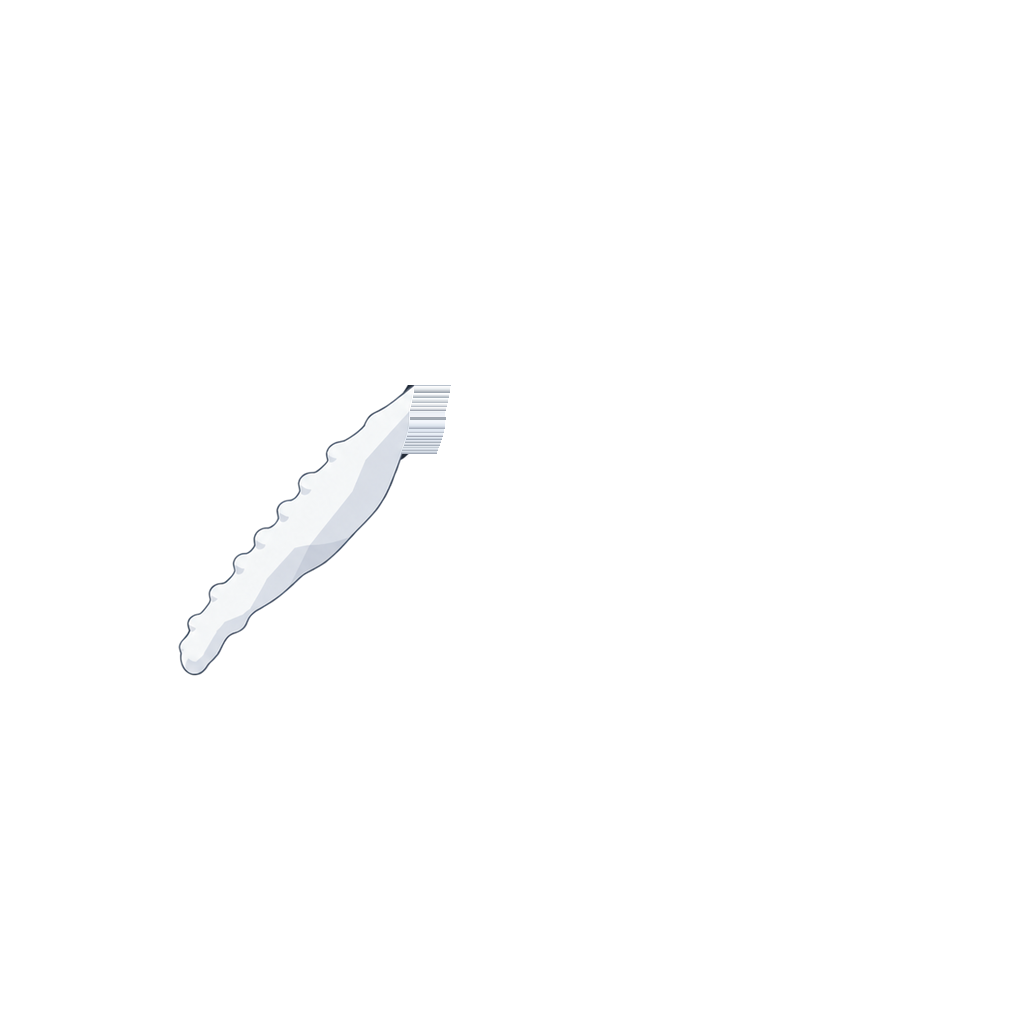
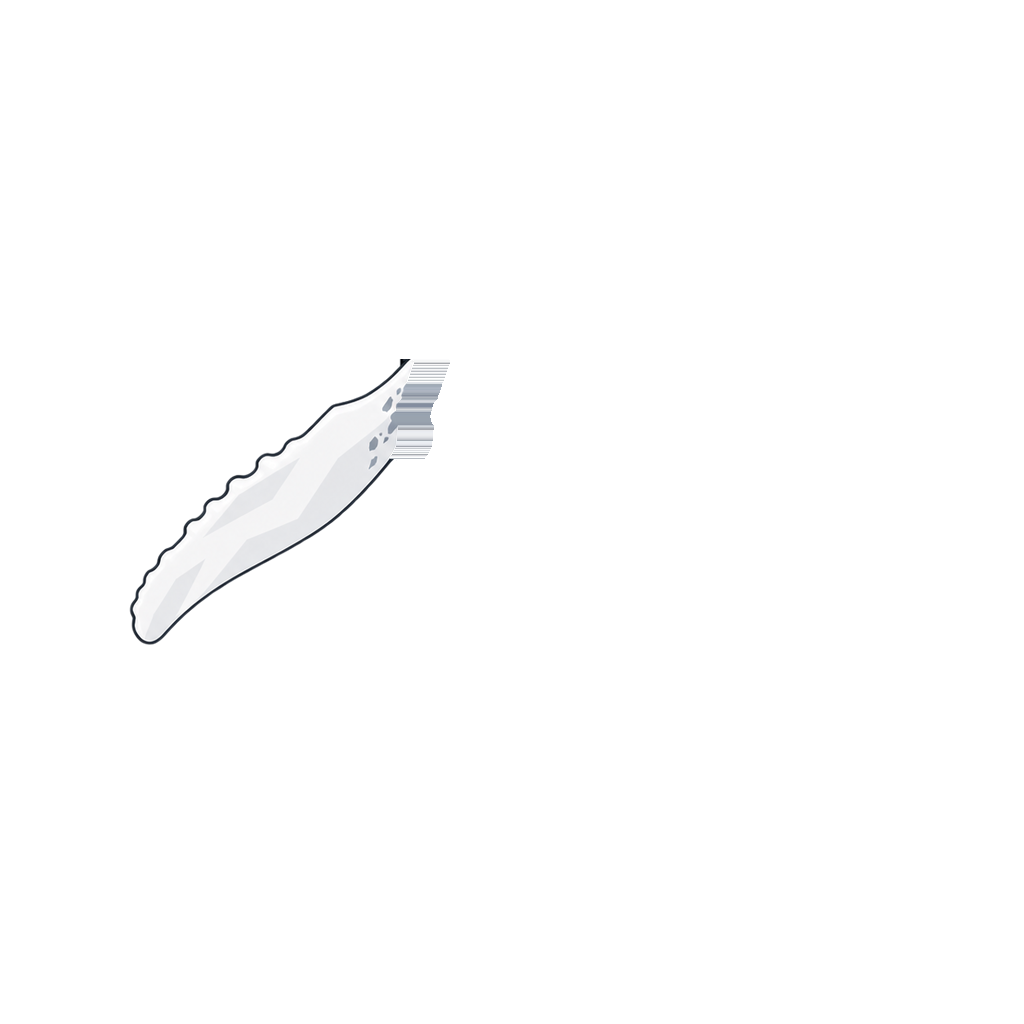
Ocean humpbacks: repainted adult and calf, and researched movement and behaviour
New paintings (Oct 19 2026) ingested; finsplit closes the flipper core so painted
spots at the root go with the flipper. Behaviour from the literature: fluke stroke
rate set by speed and length (no lateral wag), flippers steer and bank and beat only
in lunges, fluke-up vs fluke-down dives, resting mother with the calf breathing ~4x
as often at her flank, breach bouts, head lunges in competitive groups, and a bushy
blow from the blowholes. Ocean race traces change (whales are surface contacts).

Changed region(s): [[0.125, 0.3438, 0.4375, 0.6562], [0.2812, 0.4062, 0.3125, 0.4375]]

diff --git a/regatta/js/wildlife.js b/regatta/js/wildlife.js
@@ -1450,6 +1450,28 @@ const GULL_SPAN = 21, PELICAN_SPAN = 30, PORPOISE_LEN = lifeU(1.6) * 1.5;
     // up to breathe three or four times — a blow, the back rolling through the surface — then
     // a last arch and the flukes up, and down again. Now and then, on surfacing, one breaches,
     // lobtails (slaps its flukes, again and again) or rolls on its side and slaps a flipper.
+    // RESEARCHED (Oct 19 2026, Wes: "Research humpback movement, behavior and make sure it's right"), on the game's
+    // ~3x clock (scale.md: 15 u/s a knot):
+    //  - THE STROKE is up and down: from above it shows as the flukes foreshortening, never as a side-to-side wag
+    //    (the old lateral flex beat with every stroke; now the rear body bends only into a turn). Its rate follows
+    //    the speed: baleen whales cruise near 2 m/s whatever their size and stroke slower the longer they are
+    //    (Gough et al. 2019, J Exp Biol: frequency ~ length^-0.53), ~0.25 Hz for an adult humpback; a sprint to a
+    //    breach is 2-6 strokes at 0.4-0.7 Hz (Segre et al. 2020, eLife). Here a stroke every ~0.6 body lengths
+    //    travelled: ~0.7 Hz on the game's clock for a travelling adult, the calf's short body stroking faster.
+    //  - THE FLIPPERS steer; they do not paddle. They are lift surfaces for banking turns (Fish & Battle 1995;
+    //    Nemeth et al. 2024); a propulsive flipper stroke has been seen only in lunges (Segre et al. 2017). So they
+    //    are held out, flexing a little with the stroke, the outer one reaching and the inner one sweeping back in a
+    //    turn, and they beat only in the lunge.
+    //  - FLUKE-UP is the deep dive; a travelling whale often slips under without raising them (fluke-down).
+    //  - MOTHER AND CALF on the breeding grounds: the mother rests below on long dives (~0.5 breaths a minute) while
+    //    the calf comes up alone ~6x as often (~3 a minute; Hawaii, Frontiers in Mar Sci 2019); travelling, the
+    //    calf rides above and beside her, over her flipper (breeding-ground video, WIO J Mar Sci 2017). Calves are
+    //    the ones that breach and slap the most, and breaches come in bouts (one juvenile breached 52 times in four
+    //    hours, the shortest gap 6.5 s: Segre 2020).
+    //  - A COMPETITIVE GROUP: a female leading, the escorts jostling behind, head lunges (the front third thrown out
+    //    and slammed down) among the breaches and tail slaps.
+    //  - FEEDING in Hawaiian waters is rare but documented (lunges on bait schools, Lammers et al. 2024), so it stays
+    //    an occasional event.
     function makeWhalePod(P, i) {
         humpSet(HUMP_SPR.adult); humpSet(HUMP_SPR.calf);   // ask for the painted whales now, not when one first swims into view
         const segs = [], pts = P.path; let L = 0;
@@ -1458,8 +1480,10 @@ const GULL_SPAN = 21, PELICAN_SPAN = 30, PORPOISE_LEN = lifeU(1.6) * 1.5;
         const members = Array.from({ length: n }, (_, j) => {
             const calf = P.calf && j === 1;
             return { j, calf, len: calf ? CALF_LEN : WHALE_LEN * R(0.9, 1.05),
-                // formation offsets: the calf rides tight at the mother's flank, near her head
-                ox: calf ? 38 : (j - (n - 1) / 2) * (P.rowdy ? R(55, 85) : R(110, 170)), oy: calf ? -28 : (P.rowdy ? R(-120, 120) : R(-90, 90) + (j % 2) * 60),
+                // formation offsets: the calf rides tight above her flank, over her flipper; a competitive group's
+                // female (j 0) leads and the escorts crowd in behind her
+                ox: calf ? 30 : P.calf ? 0 : (j - (n - 1) / 2) * (P.rowdy ? R(55, 85) : R(110, 170)), oy: calf ? -12 : P.calf ? 0 : P.rowdy ? (j === 0 ? -110 : R(-20, 140)) : R(-90, 90) + (j % 2) * 60,
+                st: R(0, 7), bout: 0,
                 x: 0, y: 0, h: 0, mode: 'under', t: R(1, 12), depth: 1, breaths: 0, blowT: 0,
                 ev: null, evT: 0, ph: R(0, 7), fluke: 0, roll: 0, slick: 0, sx: 0, sy: 0, lift: 0, slaps: 0, sd: 1 };
         });
@@ -1495,8 +1519,12 @@ const GULL_SPAN = 21, PELICAN_SPAN = 30, PORPOISE_LEN = lifeU(1.6) * 1.5;
             const fx = Math.sin(hh), fy = -Math.cos(hh);
             for (const m of W.members) {
                 m.t -= dt; m.ph += dt;
-                // (formation below)
-                const tx = here.x + fx * -m.oy + -fy * m.ox, ty = here.y + fy * -m.oy + fx * m.ox;
+                const mum = W.cfg.calf && !m.calf;   // the mother of a calf, resting
+                // the fluke stroke: one every ~0.6 body lengths travelled (a slow scull when barely moving)
+                m.st += dt * 2 * Math.PI * Math.max(0.12, Math.min(1.3, W.cfg.speed * W.pace / (0.6 * m.len)));
+                // (formation below) — a competitive group's escorts jostle for the place behind her
+                const jx = W.cfg.rowdy && m.j ? Math.sin(m.ph * 0.23 + m.j * 2.1) * 45 : 0, jy = W.cfg.rowdy && m.j ? Math.sin(m.ph * 0.17 + m.j * 1.3) * 50 : 0;
+                const tx = here.x + fx * -(m.oy + jy) + -fy * (m.ox + jx), ty = here.y + fy * -(m.oy + jy) + fx * (m.ox + jx);
                 if (m.x === 0 && m.y === 0) { m.x = tx; m.y = ty; m.h = hh; }
                 const k = Math.min(1, dt * 0.6); m.x += (tx - m.x) * k; m.y += (ty - m.y) * k;
                 const dh = angDiff(hh + Math.sin(m.ph * 0.2 + m.j) * 0.08, m.h) * Math.min(1, dt * 0.5);
@@ -1514,12 +1542,15 @@ const GULL_SPAN = 21, PELICAN_SPAN = 30, PORPOISE_LEN = lifeU(1.6) * 1.5;
                     if (m.t < 5) m.depth = Math.max(0.25, m.depth - dt / 3);         // rising: the shape firms up
                     // a whale does not come up under a boat: it waits below until the water above is clear
                     if (m.t <= 0 && boatNear(m.x, m.y, m.len * 0.9)) m.t = 1.5;
-                    if (m.t <= 0) { m.mode = 'surface'; m.breaths = m.calf ? 5 : Math.round(R(3, 4)); m.t = 0; m.blowT = 0; m.depth = 0;
+                    if (m.t <= 0) { m.mode = 'surface'; m.breaths = m.calf ? Math.round(R(1, 2)) : mum ? Math.round(R(2, 3)) : Math.round(R(3, 4)); m.t = 0; m.blowT = 0; m.depth = 0;
                         // a surface event, sometimes, before the breaths
                         // Wes, Sep 25: "mostly move along and surface with a blow, but occasionally
                         // breach, tail slap, pectoral fin slap, or eat" — about one surfacing in three
-                        const q = W.cfg.rowdy ? 2.2 : 1, r = rnd() / q;   // a competitive group is all splash — breaches and tail slaps
-                        if (r < 0.03) startWhaleEvent(m, 'breach'); else if (r < 0.06) startWhaleEvent(m, 'lobtail'); else if (r < 0.09) startWhaleEvent(m, 'pecslap'); else if (r < 0.12 && !m.calf && !W.cfg.rowdy) startWhaleEvent(m, 'feed'); }   // Wes: "mostly travel like real whales" — about one surfacing in eight
+                        const q = W.cfg.rowdy ? 2.2 : m.calf ? 2.5 : 1, r = rnd() / q;   // a competitive group is all splash; a calf plays
+                        if (m.bout > 0) { m.bout--; startWhaleEvent(m, 'breach'); }   // a breaching bout: up again after a short dive
+                        else if (W.cfg.rowdy && rnd() < 0.14) startWhaleEvent(m, 'headlunge');
+                        else if (r < 0.03) { startWhaleEvent(m, 'breach'); if (rnd() < 0.5) m.bout = Math.round(R(1, 3)); }
+                        else if (r < 0.06) startWhaleEvent(m, 'lobtail'); else if (r < 0.09) startWhaleEvent(m, 'pecslap'); else if (r < 0.12 && !m.calf && !W.cfg.rowdy) startWhaleEvent(m, 'feed'); }   // Wes: "mostly travel like real whales" — about one surfacing in eight
                 } else if (m.mode === 'surface') {
                     if (m.ev) { updateWhaleEvent(m, dt); continue; }
                     // a boat just ahead of its head: it sounds rather than swim into it (whales keep
@@ -1528,19 +1559,21 @@ const GULL_SPAN = 21, PELICAN_SPAN = 30, PORPOISE_LEN = lifeU(1.6) * 1.5;
                       if (b) { m.mode = 'dive'; m.t = 1.25; continue; } }
                     m.blowT -= dt;
                     if (m.blowT <= 0) {
-                        if (m.breaths-- <= 0) { m.mode = 'dive'; m.t = 3.2; continue; }
+                        if (m.breaths-- <= 0) { m.mode = 'dive'; m.t = 3.2; m.up = m.bout > 0 ? false : rnd() < (m.calf ? 0.2 : W.cfg.rowdy ? 0.35 : mum ? 0.7 : 0.55); continue; }   // fluke-up for the deep dive
                         m.rollT = 0;      // each breath: the back rolls out of the water, head to tail
-                        // a blow: a bushy puff from the blowhole, a quarter of the way back from the snout
-                        const bx = m.x + Math.sin(m.h) * m.len * 0.27, by = m.y - Math.cos(m.h) * m.len * 0.27;
-                        blows.push({ x: bx, y: by, t: 0, size: m.calf ? 0.55 : 1 });
-                        m.blowT = m.calf ? R(4, 6) : R(7, 11);
+                        // a blow: a bushy puff from the blowholes, a fifth of the way back from the snout (the Oct 19 painting)
+                        const bx = m.x + Math.sin(m.h) * m.len * 0.31, by = m.y - Math.cos(m.h) * m.len * 0.31;
+                        blows.push({ x: bx, y: by, t: 0, size: m.calf ? 0.55 : 1, seed: R(0, 7), vx: Math.sin(m.h) * W.cfg.speed * W.pace, vy: -Math.cos(m.h) * W.cfg.speed * W.pace });
+                        m.blowT = m.calf ? R(3.5, 5.5) : R(7, 11);
                     }
                 } else if (m.mode === 'dive') {
-                    m.fluke = Math.max(0, Math.sin(Math.PI * (1 - m.t / 3.2)));   // the arch, then the flukes up
+                    m.fluke = m.up ? Math.max(0, Math.sin(Math.PI * (1 - m.t / 3.2))) : 0;   // the arch, then the flukes up — or, fluke-down, slipping under
                     // the flukes slipping back under: a splash where they go in, sized to them
                     if (m.fluke > 0.6) m.flHigh = true;
                     if (m.flHigh && m.fluke < 0.12 && m.t < 1.6) { m.flHigh = false; splashes.push({ x: m.x - Math.sin(m.h) * m.len * 0.42, y: m.y + Math.cos(m.h) * m.len * 0.42, t: 0, life: 3.5, r: m.len * (m.calf ? 0.16 : 0.18) }); }
-                    if (m.t <= 0) { m.mode = 'under'; m.fluke = 0; m.depth = 0.3; m.t = m.calf ? R(6, 12) : W.cfg.rowdy ? R(5, 12) : R(10, 24); m.slick = 1; m.sx = m.x; m.sy = m.y; }   // short dives: travelling whales stay near the top
+                    // short dives: travelling whales stay near the top; a resting mother stays down ~6x as long as her calf;
+                    // in a breaching bout it is straight back up
+                    if (m.t <= 0) { m.mode = 'under'; m.fluke = 0; m.depth = 0.3; m.t = m.bout > 0 ? R(3, 6) : m.calf ? (W.cfg.calf ? R(1.5, 3.5) : R(6, 12)) : mum ? R(45, 70) : W.cfg.rowdy ? R(5, 12) : R(10, 24); m.slick = 1; m.sx = m.x; m.sy = m.y; }
                 }
             }
             // the calf feat: the player alongside the mother and calf, racing
@@ -1562,13 +1595,18 @@ const GULL_SPAN = 21, PELICAN_SPAN = 30, PORPOISE_LEN = lifeU(1.6) * 1.5;
             m.lift = m.evT < 1.2 ? m.evT / 1.2 : m.evT < 1.8 ? 1 : Math.max(0, 1 - (m.evT - 1.8) / 0.5);
             m.roll = Math.min(1, Math.max(0, (m.evT - 1) / 0.8));
             if (m.evT >= 1.8 && !m.crashed) { m.crashed = true; splashes.push({ x: m.x + Math.cos(m.h) * m.sd * m.len * 0.12, y: m.y + Math.sin(m.h) * m.sd * m.len * 0.12, t: 0, life: 7, r: m.len * (m.calf ? 0.7 : 0.55), big: true }); }
-            if (m.evT > 2.6) { m.ev = null; m.lift = 0; m.roll = 0; m.crashed = false; m.blowT = 1; }
+            if (m.evT > 2.6) { m.ev = null; m.lift = 0; m.roll = 0; m.crashed = false; m.blowT = 1; if (m.bout > 0) m.breaths = 0; }
         } else if (m.ev === 'lobtail') {
             // the flukes up and brought down flat, every ~1.6 s
             const cyc = (m.evT % 1.6) / 1.6; m.fluke = Math.sin(Math.PI * Math.min(1, cyc * 1.25));
             if (cyc > 0.78 && !m.slapped) { m.slapped = true; m.slaps--; splashes.push({ x: tailX, y: tailY, t: 0, life: 3.5, r: m.len * 0.28 }); }
             if (cyc < 0.5) m.slapped = false;
             if (m.slaps <= 0 && cyc > 0.85) { m.ev = null; m.fluke = 0; m.blowT = 1; }
+        } else if (m.ev === 'headlunge') {
+            // a competitive group's HEAD LUNGE: the front third thrown up out of the water and slammed down flat
+            m.lift = m.evT < 0.6 ? 0.35 * m.evT / 0.6 : m.evT < 1 ? 0.35 : Math.max(0, 0.35 * (1 - (m.evT - 1) / 0.35));
+            if (m.evT >= 1.3 && !m.crashed) { m.crashed = true; splashes.push({ x: m.x + Math.sin(m.h) * m.len * 0.3, y: m.y - Math.cos(m.h) * m.len * 0.3, t: 0, life: 4, r: m.len * 0.3 }); }
+            if (m.evT > 1.8) { m.ev = null; m.lift = 0; m.crashed = false; m.blowT = 0.6; }
         } else if (m.ev === 'feed') {
             // a LUNGE (references): up through a boil of bait, the head thrust vertically out of the
             // water, jaws wide and the pleated throat ballooned, then settling back
@@ -7494,13 +7532,13 @@ const GULL_SPAN = 21, PELICAN_SPAN = 30, PORPOISE_LEN = lifeU(1.6) * 1.5;
     // of the body long, white, scalloped — which glow through the water long after the dark body
     // has faded into it. The calf is small and paler and rides tight at her side.
     // PAINTED (Oct 13 2026, Wes: "I want them to look amazing"): the animal is the sprite pair
-    // ocean-humpback / ocean-humpback-calf, cut by art/finsplit.py into a body and two flippers
+    // ocean-humpback / ocean-humpback-calf (repainted Oct 19 2026, Wes: "Let's take them"), cut by art/finsplit.py into a body and two flippers
     // (every part full-frame, so they reassemble in register). HUMP_SPR holds finsplit's numbers:
     // ink top/bottom (snout, fluke tips) and the tail-stock hinge as fractions of the frame, the
     // spine's x, each flipper's root and the angle the art holds it at off the tail-ward axis.
     const HUMP_SPR = {
-        adult: { file: 'humpback', top: 0.1182, bot: 0.9229, cx: 0.5028, hinge: 0.7793, fin: { l: [0.3992, 0.4092], r: [0.6063, 0.4087] }, finAng: 41.3 },
-        calf: { file: 'humpback-calf', top: 0.0898, bot: 0.8984, cx: 0.5003, hinge: 0.752, fin: { l: [0.3716, 0.3818], r: [0.6289, 0.3828] }, finAng: 38.8 },
+        adult: { file: 'humpback', top: 0.0684, bot: 0.9326, cx: 0.4993, hinge: 0.7783, fin: { l: [0.3913, 0.3989], r: [0.6074, 0.3989] }, finAng: 48.85 },
+        calf: { file: 'humpback-calf', top: 0.1367, bot: 0.8779, cx: 0.5, hinge: 0.7451, fin: { l: [0.3956, 0.439], r: [0.6042, 0.439] }, finAng: 48.85 },
     };
     const _humpImg = {};
     function humpImg(name) {
@@ -7659,11 +7697,15 @@ const GULL_SPAN = 21, PELICAN_SPAN = 30, PORPOISE_LEN = lifeU(1.6) * 1.5;
         };
         const lift = m.lift || 0, roll = m.roll || 0, fl = m.fluke || 0;
         const under = m.mode === 'under';
-        const beat = Math.sin(m.ph * 2.2 + m.j);                          // the fluke stroke, ~3 s a cycle
+        const st = m.st != null ? m.st : m.ph * 2.2, beat = Math.sin(st + m.j);   // the fluke stroke (its rate set by the speed, in updateWhales)
         const turn = Math.max(-1, Math.min(1, (m.turn || 0) * 3));
-        const scull = (sd) => 0.45 * Math.sin(m.ph * 1.1 + m.j + sd * 0.6) - 0.1;       // the flippers' slow sweep
-        _W = { bend: 0.035 * Math.sin(m.ph * 2.2 + m.j - 0.9) + 0.05 * turn, fore: m.mode === 'dive' || m.ev ? 1 : 0.45 + 0.55 * Math.abs(Math.cos(m.ph * 2.2 + m.j)),
-               out: { '-1': scull(-1), '1': scull(1) } };
+        // the flippers steer, not paddle: held out, flexing a little with the stroke; in a turn the outer one reaches
+        // and the inner sweeps back; only in the lunge do they beat (Segre 2017)
+        const flap = m.ev === 'feed' ? 0.55 * Math.sin(m.evT * 4) : 0;
+        const fin = (sd) => -0.1 + 0.06 * Math.sin(st + m.j - 0.6) + 0.4 * turn * sd + flap;   // (out > 0 sweeps a flipper back toward the tail)
+        // no side-to-side wag: the stroke is up and down; the rear body bends only into a turn
+        _W = { bend: 0.05 * turn, fore: m.mode === 'dive' || m.ev ? 1 : 0.45 + 0.55 * Math.abs(Math.cos(st + m.j)),
+               out: { '-1': fin(-1), '1': fin(1) } };
         const out = lift > 0.02 || m.ev === 'feed' || (m.ev === 'breach' && roll > 0.05);   // a whole-body event (a pec slap lies at the surface)
         const depth = under ? m.depth : out ? 0 : 0.35;                     // at the surface it lies just under
         ctx.save(); ctx.translate(m.x, m.y); ctx.rotate(m.h);
@@ -7763,18 +7805,36 @@ const GULL_SPAN = 21, PELICAN_SPAN = 30, PORPOISE_LEN = lifeU(1.6) * 1.5;
         g.addColorStop(0, `rgba(185,225,235,${a})`); g.addColorStop(0.8, `rgba(185,225,235,${a * 0.6})`); g.addColorStop(1, 'rgba(185,225,235,0)');
         ctx.fillStyle = g; ctx.beginPath(); ctx.ellipse(F.x, F.y, F.r * (1 + k * 0.6), F.r * 0.75 * (1 + k * 0.6), F.h, 0, Math.PI * 2); ctx.fill();
     }
-    // A blow from above: a bushy puff of white mist at the blowhole, growing and drifting down
-    // the wind as it thins — a heart-shaped V close up, a soft plume from where we are.
+    // A HUMPBACK'S BLOW from above (Oct 19 2026, researched): a BUSHY blow, 3-6 m tall and nearly as wide (a blue
+    // whale's is a slim 9-12 m column, a right whale's a V), gone in a few seconds. From straight overhead the column
+    // is seen end-on, as drawBlueBlow draws it, but shorter and fatter: an explosive bright burst at the blowholes,
+    // a dense rounded cloud billowing out and leaning off downwind as it thins, and a short soft shadow thrown down
+    // and to the right by its height. It leaves the whale moving (the core rides on a moment). About a third of the
+    // whale's length across at its widest — the old puff swelled to a full body length.
     function drawBlow(ctx, B) {
-        const k = B.t / 3.5, r = (16 + k * 52) * B.size, a = 0.85 * (1 - k) * (1 - k);
-        const w = state.wind || { direction: 0 }, dx = -Math.sin(w.direction) * k * 40, dy = Math.cos(w.direction) * k * 40;
-        ctx.save(); ctx.translate(B.x + dx, B.y + dy);
-        for (const [ox, oy, rr] of [[0, 0, 1], [r * 0.35, -r * 0.2, 0.75], [-r * 0.3, -r * 0.25, 0.7], [0, r * 0.35, 0.6]]) {
-            const g = ctx.createRadialGradient(ox, oy, 0, ox, oy, r * rr);
-            g.addColorStop(0, `rgba(245,248,250,${a})`); g.addColorStop(1, 'rgba(245,248,250,0)');
-            ctx.fillStyle = g; ctx.beginPath(); ctx.arc(ox, oy, r * rr, 0, Math.PI * 2); ctx.fill();
+        const t = B.t, s = B.size || 1, k = Math.min(1, t / 3.5), sd = B.seed || 0;
+        const w = state.wind || { direction: 0 }, dx = -Math.sin(w.direction), dy = Math.cos(w.direction);
+        const carry = Math.min(t, 0.5), bx = B.x + (B.vx || 0) * carry * 0.5, by = B.y + (B.vy || 0) * carry * 0.5;
+        const soft = (x, y, r, a, col) => { if (a <= 0.005 || r <= 0) return; const g = ctx.createRadialGradient(x, y, 0, x, y, r); g.addColorStop(0, `rgba(${col},${a})`); g.addColorStop(0.55, `rgba(${col},${a * 0.55})`); g.addColorStop(1, `rgba(${col},0)`); ctx.fillStyle = g; ctx.beginPath(); ctx.arc(x, y, r, 0, Math.PI * 2); ctx.fill(); };
+        // the column's shadow: short and broad, down-right from the base
+        const rise = Math.min(1, t / 0.4), sh = (1 - Math.min(1, t / 2.2)) * rise;
+        if (sh > 0.01) { const L = 55 * s * rise;
+            ctx.save(); ctx.translate(bx, by); ctx.rotate(Math.atan2(0.84, 0.54));
+            const g = ctx.createLinearGradient(0, 0, L, 0); g.addColorStop(0, `rgba(10,25,40,${0.14 * sh})`); g.addColorStop(1, 'rgba(10,25,40,0)');
+            ctx.fillStyle = g; ctx.beginPath(); ctx.moveTo(0, -6 * s); ctx.quadraticCurveTo(L * 0.6, -14 * s, L, -5 * s); ctx.lineTo(L, 5 * s); ctx.quadraticCurveTo(L * 0.6, 14 * s, 0, 6 * s); ctx.closePath(); ctx.fill(); ctx.restore(); }
+        // the burst: a sharp bright core and torn spray in the first third of a second
+        if (t < 0.35) { const b = t / 0.35; soft(bx, by, (7 + 12 * b) * s, 0.95 * (1 - b * 0.4), '255,255,255');
+            ctx.fillStyle = `rgba(255,255,255,${0.55 * (1 - b)})`;
+            for (let i = 0; i < 6; i++) { const a = i / 6 * Math.PI * 2 + sd, r = (6 + 11 * b) * s * (0.8 + 0.3 * Math.abs(Math.sin(i * 3.1 + sd))); ctx.beginPath(); ctx.ellipse(bx + Math.cos(a) * r, by + Math.sin(a) * r, 2.2 * s, 1 * s, a, 0, Math.PI * 2); ctx.fill(); } }
+        // the bushy cloud: a dense round core, and lumps billowing out to the sides and leaning off downwind
+        const a0 = 0.9 * Math.pow(1 - k, 1.5);
+        soft(bx + dx * 5 * s * k, by + dy * 5 * s * k, (10 + 9 * Math.min(1, t / 0.8)) * s, a0 * Math.max(0, 1 - t / 2) + a0 * 0.3, '252,253,254');
+        for (let i = 0; i < 5; i++) {
+            const f = (i + 1) / 5, j = Math.sin(i * 12.9 + sd * 3.3), jj = Math.cos(i * 7.7 + sd);
+            const d = (4 + 30 * f) * s * Math.min(1, t / 2.5) + 3 * s * f;
+            const r = (10 + 10 * f + 7 * k) * s * (0.8 + 0.25 * j);
+            soft(bx + dx * d + (-dy) * jj * 9 * s, by + dy * d + dx * jj * 9 * s, r, a0 * (0.75 - 0.4 * f) * Math.min(1, t / 0.4), '246,249,251');
         }
-        ctx.restore();
     }
     // White water: a breach or a slap throws up a burst — a bright heart that swells into a ring of
     // torn foam, then lies on the sea as a fading lacy patch. Connected sheets, not dots.

diff --git a/regatta/eval/_ocean_hump_moves.js b/regatta/eval/_ocean_hump_moves.js
@@ -1,0 +1,29 @@
+// Filmstrips of the researched humpback (Oct 19 2026): row 1 one fluke stroke (no side-to-side wag, flippers held);
+// row 2 a hard right turn (outer flipper reaching, inner swept back) and a lunge's flipper beat; row 3 the blow over
+// 3.5 s (adult) and a calf's; row 4 a head lunge and a fluke-up vs fluke-down dive.   node regatta/eval/_ocean_hump_moves.js out.png
+const { chromium } = require('playwright'); const path = require('path');
+(async () => {
+  const b = await chromium.launch(); const p = await b.newPage({ viewport: { width: 1600, height: 1200 } });
+  await p.goto('file://' + path.resolve('regatta/index.html'));
+  await p.waitForFunction(() => window.state && window.Wildlife && typeof resetGame === 'function');
+  await p.evaluate(() => { localStorage.setItem('regatta_settings', JSON.stringify({ venue: 'ocean', soundEnabled: false, musicEnabled: false, bgSoundEnabled: false })); resetGame();
+    const g = document.createElement('canvas').getContext('2d'); for (const calf of [false, true]) Wildlife.art.drawWhale(g, { j: 0, calf, len: 50, x: 0, y: 0, h: 0, mode: 'surface', depth: 0, ph: 0 }); });
+  await p.waitForTimeout(800);
+  await p.evaluate(() => {
+    const A = Wildlife.art, c = document.createElement('canvas'); c.width = 1600; c.height = 1200; c.style.cssText = 'position:fixed;left:0;top:0;z-index:99999'; document.body.appendChild(c);
+    const g = c.getContext('2d'); g.fillStyle = '#1e5fa6'; g.fillRect(0, 0, 1600, 1200); state.wind = { direction: Math.PI / 2, speed: 5 };
+    const W = (o) => Object.assign({ j: 0, calf: false, len: 132, x: 0, y: 0, h: 0, mode: 'under', depth: 0.15, fluke: 0, roll: 0, fin: 0, lift: 0, slick: 0, sd: 1, ev: null, ph: 0, st: 0, turn: 0, evT: 0 }, o);
+    const lab = (t, x, y) => { g.fillStyle = '#fff'; g.font = '13px sans-serif'; g.fillText(t, x, y); };
+    const at = (x, y, s, f) => { g.save(); g.translate(x, y); g.scale(s, s); f(); g.restore(); };
+    for (let i = 0; i < 6; i++) { at(130 + i * 250, 150, 1.4, () => A.drawWhale(g, W({ st: i / 6 * Math.PI * 2 }))); lab('stroke ' + i + '/6', 100 + i * 250, 290); }
+    at(150, 440, 1.4, () => A.drawWhale(g, W({ turn: 0.33 }))); lab('turning right', 110, 580);
+    at(400, 440, 1.4, () => A.drawWhale(g, W({ turn: -0.33 }))); lab('turning left', 360, 580);
+    for (let i = 0; i < 3; i++) { at(680 + i * 250, 440, 1.4, () => A.drawWhale(g, W({ mode: 'surface', ev: 'feed', evT: 0.3 + i * 0.4, lift: 0 }))); lab('lunge flipper beat ' + i, 630 + i * 250, 580); }
+    for (let i = 0; i < 6; i++) { const t = [0.1, 0.25, 0.6, 1.2, 2, 3][i]; at(130 + i * 250, 720, 1.4, () => { A.drawWhale(g, W({ mode: 'surface', rollT: t, depth: 0 })); A.drawBlow(g, { x: 0, y: -132 * 0.27, t, size: 1, seed: 1, vx: 0, vy: -55 }); }); lab('blow t=' + t + 's', 100 + i * 250, 860); }
+    at(130, 1030, 1.4, () => A.drawWhale(g, W({ mode: 'surface', ev: 'headlunge', lift: 0.35, depth: 0 }))); lab('head lunge', 100, 1170);
+    at(380, 1030, 1.4, () => A.drawWhale(g, W({ mode: 'dive', t: 1.6, fluke: 1, depth: 0 }))); lab('dive, fluke-up', 340, 1170);
+    at(630, 1030, 1.4, () => A.drawWhale(g, W({ mode: 'dive', t: 1.6, fluke: 0, depth: 0 }))); lab('dive, fluke-down', 590, 1170);
+    for (let i = 0; i < 3; i++) { const t = [0.2, 0.8, 2][i]; at(900 + i * 230, 1030, 2.4, () => { A.drawWhale(g, W({ calf: true, len: 48, mode: 'surface', rollT: t, depth: 0 })); A.drawBlow(g, { x: 0, y: -48 * 0.27, t, size: 0.55, seed: 2 }); }); lab('calf blow t=' + t, 860 + i * 230, 1170); }
+  });
+  await p.screenshot({ path: process.argv[2] }); await b.close();
+})();

diff --git a/regatta/eval/test_ocean.js b/regatta/eval/test_ocean.js
@@ -30,10 +30,16 @@ const ok = (c, m) => { if (!c) { fails++; console.log('  FAIL ' + m); } else con
         for (const bt of state.boats) away(bt);
         // a long quiet run (not racing): behaviours, water, no RNG
         const real = Math.random; let calls = 0; Math.random = () => { calls++; return real(); };
-        const seen = new Set(); let dry = 0, blows = 0;
+        const seen = new Set(); let dry = 0, blows = 0, calfGap = [], ups = 0, downs = 0; const was = new Map();
+        const cp = d.whalePods.find(W => W.cfg.calf), st0 = d.whalePods.map(W => W.members[0].st);
         for (let i = 0; i < 30 * 600; i++) { Wildlife.update(1 / 30);
-            for (const W of d.whalePods) for (const m of W.members) { if (m.ev) seen.add(m.ev); if (pointOnLand(m.x, m.y)) dry++; }
+            for (const W of d.whalePods) for (const m of W.members) { if (m.ev) seen.add(m.ev); if (pointOnLand(m.x, m.y)) dry++;
+                if (m.mode === 'dive' && was.get(m) !== 'dive') m.up ? ups++ : downs++; was.set(m, m.mode); }
+            if (i % 30 === 0) calfGap.push(Math.hypot(cp.members[1].x - cp.members[0].x, cp.members[1].y - cp.members[0].y));
             blows = Math.max(blows, Wildlife.debug().blows.length); }
+        calfGap.sort((a, b) => a - b); out.calfGap = Math.round(calfGap[calfGap.length >> 1]); out.ups = ups; out.downs = downs;
+        // stroke rate, Hz on the game's ~3x clock, for the travelling pods (not the resting calf pod, not the competitive group)
+        out.hz = d.whalePods.map((W, k) => ({ W, f: (W.members[0].st - st0[k]) / (2 * Math.PI) / 600 })).filter(o => !o.W.cfg.calf && !o.W.cfg.rowdy).map(o => +o.f.toFixed(2));
         Math.random = real;
         out.randomCalls = calls; out.events = [...seen].sort().join(','); out.dry = dry; out.blows = blows;
         // the calf feat
@@ -100,7 +106,11 @@ const ok = (c, m) => { if (!c) { fails++; console.log('  FAIL ' + m); } else con
     ok(r.randomCalls === 0, `wildlife never calls Math.random (${r.randomCalls})`);
     ok(r.dry === 0, `no whale ever on land (${r.dry} frames)`);
     ok(r.blows > 0, 'whales blow');
-    ok(['breach', 'feed', 'lobtail', 'pecslap'].every(e => r.events.includes(e)), `ten minutes of whales shows every behaviour (${r.events})`);
+    ok(['breach', 'feed', 'lobtail', 'pecslap', 'headlunge'].every(e => r.events.includes(e)), `ten minutes of whales shows every behaviour (${r.events})`);
+    // the research pass (Oct 19 2026, WHALES in js/wildlife.js)
+    ok(r.calfGap < 60, `the calf rides at her flank, not off in the group (median ${r.calfGap} u apart)`);
+    ok(r.ups > 0 && r.downs > 0, `some dives are fluke-up, some slip under fluke-down (${r.ups} / ${r.downs})`);
+    ok(r.hz.every(f => f > 0.55 && f < 0.95), `travelling adults stroke ~0.25 Hz real, ~0.7 on the game's 3x clock (${r.hz.join(', ')})`);
     ok(!r.calfPrestart && !r.calfBot && !r.calfFar, 'the calf feat: not before the gun, not a bot, not from far off');
     ok(r.calfNear, 'the player alongside the mother and calf earns ocean:calf');
     ok(r.dolphinJoin >= 0 && r.dolphinJoin < 20, `spinner dolphins come to a fast boat's bow (after ${r.dolphinJoin.toFixed(1)} s)`);

diff --git a/regatta/eval/_ocean_hump_behave.js b/regatta/eval/_ocean_hump_behave.js
@@ -1,0 +1,32 @@
+// Probe: the humpbacks' behaviour against the field numbers (Oct 19 2026 research pass; see WHALES in js/wildlife.js).
+// Twenty minutes of game clock, boats away: stroke rate per pod (Hz, game clock ~3x real), fluke-up share of dives,
+// blows a minute for the resting mother and her calf, the calf's place beside her, events seen, breach bouts.
+//   node regatta/eval/_ocean_hump_behave.js      (from the repo root)
+const { chromium } = require('playwright'); const path = require('path');
+(async () => {
+    const b = await chromium.launch(); const p = await b.newPage();
+    await p.goto('file://' + path.resolve('regatta/index.html'));
+    await p.waitForFunction(() => window.state && window.Wildlife && typeof resetGame === 'function');
+    const r = await p.evaluate(() => {
+        localStorage.setItem('regatta_settings', JSON.stringify({ venue: 'ocean', soundEnabled: false, musicEnabled: false, bgSoundEnabled: false }));
+        resetGame(); for (const bt of state.boats) { bt.x = 1e6; bt.y = 1e6; }
+        const d = Wildlife.debug(), W = d.whalePods, dt = 1 / 30, N = 30 * 1200;
+        const st0 = W.map(P => P.members.map(m => m.st)), dives = { up: 0, down: 0 }, ev = {}, blowsBy = new Map(); let bout = 0, calfDx = [], calfDy = [];
+        const prevMode = new Map(), prevEv = new Map(), prevBlow = new Map();
+        for (let i = 0; i < N; i++) { Wildlife.update(dt);
+            for (const P of W) for (const m of P.members) {
+                if (m.mode === 'dive' && prevMode.get(m) !== 'dive') m.up ? dives.up++ : dives.down++;
+                if (m.ev && prevEv.get(m) !== m.ev) { ev[m.ev] = (ev[m.ev] || 0) + 1; if (m.ev === 'breach' && m.bout >= 0 && prevEv.get(m) == null && m._lastBreach != null && i - m._lastBreach < 30 * 20) bout++; if (m.ev === 'breach') m._lastBreach = i; }
+                if (m.blowT > (prevBlow.get(m) || 0) + 0.5) blowsBy.set(m, (blowsBy.get(m) || 0) + 1);
+                prevMode.set(m, m.mode); prevEv.set(m, m.ev); prevBlow.set(m, m.blowT);
+            }
+            const C = W.find(P => P.cfg.calf); if (i % 30 === 0) { const mo = C.members[0], ca = C.members[1], fx = Math.sin(mo.h), fy = -Math.cos(mo.h), ex = ca.x - mo.x, ey = ca.y - mo.y; calfDx.push(ex * -fy + ey * fx); calfDy.push(ex * fx + ey * fy); }
+        }
+        const mins = N * dt / 60, med = (a) => a.slice().sort((x, y) => x - y)[a.length >> 1];
+        return { pods: W.map((P, k) => ({ id: P.cfg.id, speed: P.cfg.speed, hz: P.members.map((m, j) => +((m.st - st0[k][j]) / (2 * Math.PI) / (N * dt)).toFixed(2)) })),
+            flukeUpShare: +(dives.up / (dives.up + dives.down)).toFixed(2), dives, events: ev, breachesWithin20s: bout,
+            mumBlowsPerMin: +((blowsBy.get(W.find(P => P.cfg.calf).members[0]) || 0) / mins).toFixed(1), calfBlowsPerMin: +((blowsBy.get(W.find(P => P.cfg.calf).members[1]) || 0) / mins).toFixed(1),
+            calfBeside: +med(calfDx).toFixed(0), calfAhead: +med(calfDy).toFixed(0) };
+    });
+    console.log(JSON.stringify(r, null, 1)); await b.close();
+})();

diff --git a/regatta/art/finsplit.py b/regatta/art/finsplit.py
@@ -72,7 +72,11 @@ def main():
     core = np.zeros_like(bright)
     for sel in (np.arange(n) < cx, np.arange(n) >= cx):
         sizes = ndimage.sum(bright & sel[None, :], lab, range(1, k + 1))
-        core |= (lab == 1 + int(np.argmax(sizes))) & sel[None, :]
+        side = (lab == 1 + int(np.argmax(sizes))) & sel[None, :]
+        # grey spots painted on the flipper (the Oct 19 2026 adult has them at the root) are not
+        # bright: close and fill the white patch so they go with the flipper, not stay on the body
+        disk = np.hypot(*np.mgrid[-12:13, -12:13]) <= 12
+        core |= ndimage.binary_fill_holes(ndimage.binary_closing(side, disk)) & sel[None, :]
 
     top, bot = ys.min(), ys.max()
 
